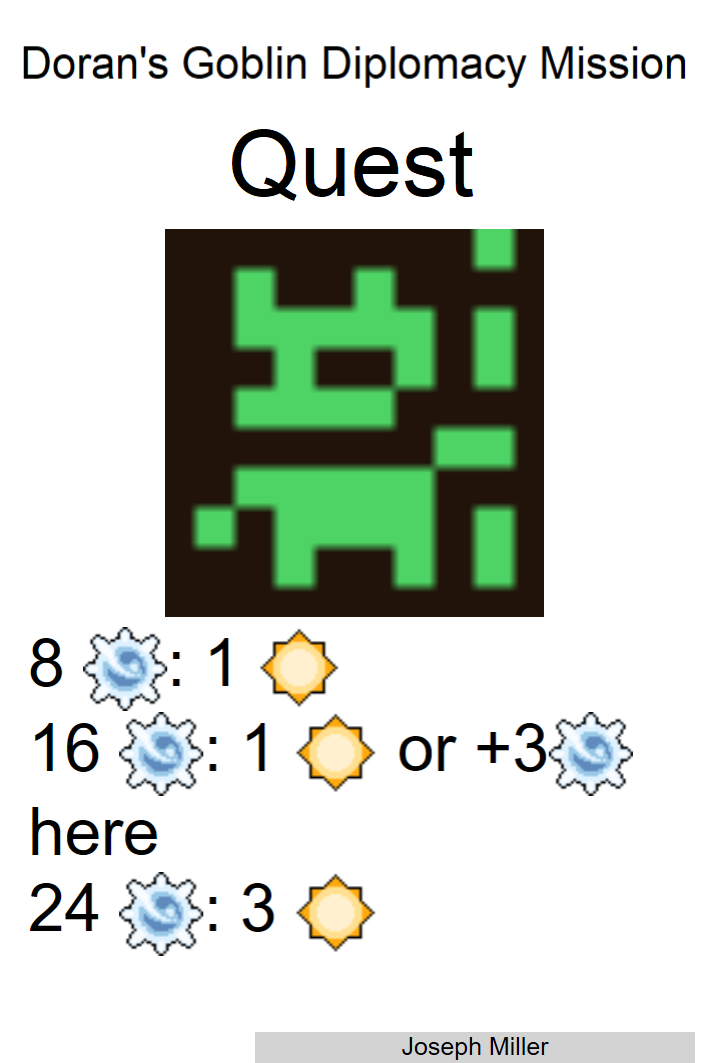
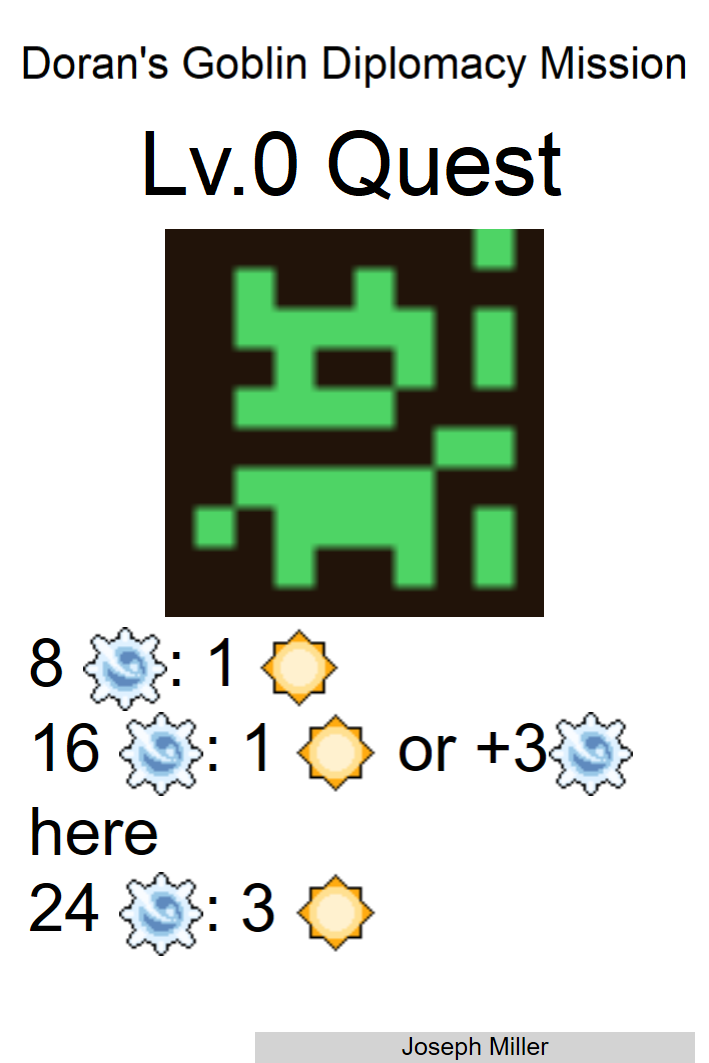
quest update correct dir, jane, rob

Changed region(s): [[0.1862, 0.1242, 0.8068, 0.1863]]

diff --git a/cardList.js b/cardList.js
@@ -1,86 +1,92 @@
-export const cardListString = `Inc,$$$,Name,$$$,Lv,$$$,Type,$$$,Cost,$$$,hasTrigger,$$$,Willpower,$$$,FX,$$$,NobaseLink,$$$,ImageLink,Color,$$$,Notes,$$$,Typeline,$$$,Set,$$$,Designer,$$$,Artist,$$$,DesArt,$$$,Prototype?,$$$,Type Sort Order
-,$$$,"Bert, Carnival Showman",$$$,1,$$$,Character - Bert,$$$,1rsrc&,$$$,,$$$,1 wp&,$$$,"grand~: Reveal a card from your hand and the top 3 cards of your deck. If any of them have matching names, +2wp& until end of turn.",$$$,tcgpics\joseph art\bert1.png,$$$,C:\nandeck(1)\tcgpics\joseph art\bert1.png,,$$$,,$$$,Lv.1 Character - Bert,$$$,Set 2,$$$,Ananda Guneratne,$$$,Joseph Miller,$$$,D:Ananda Guneratne/A:Joseph Miller,$$$,,$$$,1
-,$$$,"Bert, Slick Salesman",$$$,2,$$$,Character - Bert,$$$,3rsrc&,$$$,,$$$,2 wp&,$$$,"grand~: Reveal up to three cards from your hand and gain 2 rsrc& for each different card type revealed. (The card types are character, event, support.)",$$$,tcgpics\joseph art\bert2.png,$$$,C:\nandeck(1)\tcgpics\joseph art\bert2.png,,$$$,,$$$,Lv.2 Character - Bert,$$$,Set 2,$$$,Ananda Guneratne,$$$,Joseph Miller,$$$,D:Ananda Guneratne/A:Joseph Miller,$$$,,$$$,1
-,$$$,"Bert, Legendary Conman",$$$,3,$$$,Character - Bert,$$$,3rsrc&,$$$,,$$$,3 wp&,$$$,"For each card you reveal during a turn, gain 1 rsrc& (up to 8 rsrc&)",$$$,tcgpics\joseph art\bert3.png,$$$,C:\nandeck(1)\tcgpics\joseph art\bert3.png,,$$$,,$$$,Lv.3 Character - Bert,$$$,Set 2,$$$,Ananda Guneratne,$$$,Joseph Miller,$$$,D:Ananda Guneratne/A:Joseph Miller,$$$,,$$$,1
-,$$$,"Doran, the Necrodude",$$$,1,$$$,Character - Doran,$$$,1rsrc&,$$$,,$$$,1 wp&,$$$,grand&: +2 wp& this turn if you have at least 5 cards in your discard.,$$$,tcgpics\prototype pixel art\necromancer.png,$$$,C:\nandeck(1)\tcgpics\prototype pixel art\necromancer.png,,$$$,,$$$,Character - Doran,$$$,Set 1,$$$,Joseph Miller,$$$,Joseph Miller,$$$,Joseph Miller,$$$,,$$$,1
-,$$$,"Doran, Necro-Rising",$$$,2,$$$,Character - Doran,$$$,2rsrc&,$$$,,$$$,3 wp&,$$$,"grand&, 6 rsrc&: Discard an event to put 12 wp& on any quest Lv.2 or lower.",$$$,tcgpics\prototype pixel art\necromancer2.png,$$$,C:\nandeck(1)\tcgpics\prototype pixel art\necromancer2.png,,$$$,,$$$,Character - Doran,$$$,Set 1,$$$,Joseph Miller,$$$,Joseph Miller,$$$,Joseph Miller,$$$,,$$$,1
-,$$$,"Doran, Necro-Skeletized",$$$,3,$$$,Character - Doran,$$$,3rsrc&,$$$,,$$$,5 wp&,$$$,"grand&, 8 rsrc&, exhaust: Distribute 13 wp& as you choose between any two quests Lv.3 or lower.",$$$,tcgpics\prototype pixel art\necromancer3.png,$$$,C:\nandeck(1)\tcgpics\prototype pixel art\necromancer3.png,,$$$,,$$$,Character - Doran,$$$,Set 1,$$$,Joseph Miller,$$$,Joseph Miller,$$$,Joseph Miller,$$$,,$$$,1
-,$$$,"Dryad, the Dud",$$$,1,$$$,Character - Dryad,$$$,2rsrc&,$$$,,$$$,0 wp&,$$$,Exhaust: 2 rsrc&,$$$,tcgpics\prototype pixel art\dryad1.png,$$$,C:\nandeck(1)\tcgpics\prototype pixel art\dryad1.png,,$$$,,$$$,Lv.1 Character - Dryad,$$$,Set 2,$$$,Cole Hanton,$$$,Cole Hanton,$$$,Cole Hanton,$$$,,$$$,1
-,$$$,"Dryad, the Dude",$$$,2,$$$,Character - Dryad,$$$,4rsrc&,$$$,,$$$,1 wp&,$$$,Exhaust: 3 rsrc&,$$$,tcgpics\prototype pixel art\dryad2.png,$$$,C:\nandeck(1)\tcgpics\prototype pixel art\dryad2.png,,$$$,,$$$,Lv.2 Character - Dryad,$$$,Set 2,$$$,Cole Hanton,$$$,Cole Hanton,$$$,Cole Hanton,$$$,,$$$,1
-,$$$,"Dryad, the Oakencrest",$$$,3,$$$,Character - Dryad,$$$,7rsrc&,$$$,,$$$,2 wp&,$$$,Exhaust: 5 rsrc&,$$$,tcgpics\prototype pixel art\dryad3.png,$$$,C:\nandeck(1)\tcgpics\prototype pixel art\dryad3.png,,$$$,,$$$,Lv.3 Character - Dryad,$$$,Set 2,$$$,Cole Hanton,$$$,Cole Hanton,$$$,Cole Hanton,$$$,,$$$,1
-,$$$,"Eevin, Average Weatherman",$$$,1,$$$,Character - Eevin,$$$,2rsrc&,$$$,,$$$,1 wp&,$$$,grand~: You may put any number of cards from your hand on top of your deck. +1 wp& until end of turn for each card placed this way.,$$$,tcgpics\joseph art\eevin1.png,$$$,C:\nandeck(1)\tcgpics\joseph art\eevin1.png,,$$$,,$$$,Lv.1 Character - Eevin,$$$,Set 2,$$$,Ananda Guneratne,$$$,Joseph Miller,$$$,D:Ananda Guneratne/A:Joseph Miller,$$$,,$$$,1
-,$$$,"Eevin, Honored Prophet",$$$,2,$$$,Character - Eevin,$$$,5rsrc&,$$$,,$$$,2 wp&,$$$,grand~: Reveal the top card of your deck. You may draw it or play it for free.,$$$,tcgpics\joseph art\eevin2.png,$$$,C:\nandeck(1)\tcgpics\joseph art\eevin2.png,,$$$,,$$$,Lv.2 Character - Eevin,$$$,Set 2,$$$,Ananda Guneratne,$$$,Joseph Miller,$$$,D:Ananda Guneratne/A:Joseph Miller,$$$,,$$$,1
-,$$$,"Eevin, Oracle of Tomorrow",$$$,3,$$$,Character - Eevin,$$$,3rsrc&,$$$,trigger!,$$$,3 wp&,$$$,"You may look at the top card of your deck at any time.
+export const cardListString = `@@@,$$$,Name,$$$,Lv,$$$,Type,$$$,Cost,$$$,hasTrigger,$$$,Willpower,$$$,FX,$$$,NobaseLink,$$$,ImageLink,Color,$$$,Notes,$$$,Typeline,$$$,Set,$$$,Designer,$$$,Artist,$$$,DesArt,$$$,Prototype?,$$$,Type Sort Order
+@@@,$$$,"Bert, Carnival Showman",$$$,1,$$$,Character - Bert,$$$,1rsrc&,$$$,,$$$,1 wp&,$$$,"grand~: Reveal a card from your hand and the top 3 cards of your deck. If any of them have matching names, +2wp& until end of turn.",$$$,tcgpics\joseph art\bert1.png,$$$,C:\nandeck(1)\tcgpics\joseph art\bert1.png,,$$$,,$$$,Lv.1 Character - Bert,$$$,Set 2,$$$,Ananda Guneratne,$$$,Joseph Miller,$$$,D:Ananda Guneratne/A:Joseph Miller,$$$,,$$$,1
+@@@,$$$,"Bert, Slick Salesman",$$$,2,$$$,Character - Bert,$$$,3rsrc&,$$$,,$$$,2 wp&,$$$,"grand~: Reveal up to three cards from your hand and gain 2 rsrc& for each different card type revealed. (The card types are character, event, support.)",$$$,tcgpics\joseph art\bert2.png,$$$,C:\nandeck(1)\tcgpics\joseph art\bert2.png,,$$$,,$$$,Lv.2 Character - Bert,$$$,Set 2,$$$,Ananda Guneratne,$$$,Joseph Miller,$$$,D:Ananda Guneratne/A:Joseph Miller,$$$,,$$$,1
+@@@,$$$,"Bert, Legendary Conman",$$$,3,$$$,Character - Bert,$$$,3rsrc&,$$$,,$$$,3 wp&,$$$,"For each card you reveal during a turn, gain 1 rsrc& (up to 8 rsrc&)",$$$,tcgpics\joseph art\bert3.png,$$$,C:\nandeck(1)\tcgpics\joseph art\bert3.png,,$$$,,$$$,Lv.3 Character - Bert,$$$,Set 2,$$$,Ananda Guneratne,$$$,Joseph Miller,$$$,D:Ananda Guneratne/A:Joseph Miller,$$$,,$$$,1
+@@@,$$$,"Doran, the Necrodude",$$$,1,$$$,Character - Doran,$$$,1rsrc&,$$$,,$$$,1 wp&,$$$,grand&: +2 wp& this turn if you have at least 5 cards in your discard.,$$$,tcgpics\prototype pixel art\necromancer.png,$$$,C:\nandeck(1)\tcgpics\prototype pixel art\necromancer.png,,$$$,,$$$,Character - Doran,$$$,Set 1,$$$,Joseph Miller,$$$,Joseph Miller,$$$,Joseph Miller,$$$,,$$$,1
+@@@,$$$,"Doran, Necro-Rising",$$$,2,$$$,Character - Doran,$$$,2rsrc&,$$$,,$$$,3 wp&,$$$,"grand&, 6 rsrc&: Discard an event to put 12 wp& on any quest Lv.2 or lower.",$$$,tcgpics\prototype pixel art\necromancer2.png,$$$,C:\nandeck(1)\tcgpics\prototype pixel art\necromancer2.png,,$$$,,$$$,Character - Doran,$$$,Set 1,$$$,Joseph Miller,$$$,Joseph Miller,$$$,Joseph Miller,$$$,,$$$,1
+@@@,$$$,"Doran, Necro-Skeletized",$$$,3,$$$,Character - Doran,$$$,3rsrc&,$$$,,$$$,5 wp&,$$$,"grand&, 8 rsrc&, exhaust: Distribute 13 wp& as you choose between any two quests Lv.3 or lower.",$$$,tcgpics\prototype pixel art\necromancer3.png,$$$,C:\nandeck(1)\tcgpics\prototype pixel art\necromancer3.png,,$$$,,$$$,Character - Doran,$$$,Set 1,$$$,Joseph Miller,$$$,Joseph Miller,$$$,Joseph Miller,$$$,,$$$,1
+@@@,$$$,"Dryad, the Dud",$$$,1,$$$,Character - Dryad,$$$,2rsrc&,$$$,,$$$,0 wp&,$$$,Exhaust: 2 rsrc&,$$$,tcgpics\prototype pixel art\dryad1.png,$$$,C:\nandeck(1)\tcgpics\prototype pixel art\dryad1.png,,$$$,,$$$,Lv.1 Character - Dryad,$$$,Set 2,$$$,Cole Hanton,$$$,Cole Hanton,$$$,Cole Hanton,$$$,,$$$,1
+@@@,$$$,"Dryad, the Dude",$$$,2,$$$,Character - Dryad,$$$,4rsrc&,$$$,,$$$,1 wp&,$$$,Exhaust: 3 rsrc&,$$$,tcgpics\prototype pixel art\dryad2.png,$$$,C:\nandeck(1)\tcgpics\prototype pixel art\dryad2.png,,$$$,,$$$,Lv.2 Character - Dryad,$$$,Set 2,$$$,Cole Hanton,$$$,Cole Hanton,$$$,Cole Hanton,$$$,,$$$,1
+@@@,$$$,"Dryad, the Oakencrest",$$$,3,$$$,Character - Dryad,$$$,7rsrc&,$$$,,$$$,2 wp&,$$$,Exhaust: 5 rsrc&,$$$,tcgpics\prototype pixel art\dryad3.png,$$$,C:\nandeck(1)\tcgpics\prototype pixel art\dryad3.png,,$$$,,$$$,Lv.3 Character - Dryad,$$$,Set 2,$$$,Cole Hanton,$$$,Cole Hanton,$$$,Cole Hanton,$$$,,$$$,1
+@@@,$$$,"Eevin, Average Weatherman",$$$,1,$$$,Character - Eevin,$$$,2rsrc&,$$$,,$$$,1 wp&,$$$,grand~: You may put any number of cards from your hand on top of your deck. +1 wp& until end of turn for each card placed this way.,$$$,tcgpics\joseph art\eevin1.png,$$$,C:\nandeck(1)\tcgpics\joseph art\eevin1.png,,$$$,,$$$,Lv.1 Character - Eevin,$$$,Set 2,$$$,Ananda Guneratne,$$$,Joseph Miller,$$$,D:Ananda Guneratne/A:Joseph Miller,$$$,,$$$,1
+@@@,$$$,"Eevin, Honored Prophet",$$$,2,$$$,Character - Eevin,$$$,5rsrc&,$$$,,$$$,2 wp&,$$$,grand~: Reveal the top card of your deck. You may draw it or play it for free.,$$$,tcgpics\joseph art\eevin2.png,$$$,C:\nandeck(1)\tcgpics\joseph art\eevin2.png,,$$$,,$$$,Lv.2 Character - Eevin,$$$,Set 2,$$$,Ananda Guneratne,$$$,Joseph Miller,$$$,D:Ananda Guneratne/A:Joseph Miller,$$$,,$$$,1
+@@@,$$$,"Eevin, Oracle of Tomorrow",$$$,3,$$$,Character - Eevin,$$$,3rsrc&,$$$,trigger!,$$$,3 wp&,$$$,"You may look at the top card of your deck at any time.
 
 trigger~, 0 rsrc&: Look at the top card of your deck, you may put it on the top or bottom. Put this card on the bottom of your deck, then you may check for trigger~ effects again.",$$$,tcgpics\joseph art\eevin3.png,$$$,C:\nandeck(1)\tcgpics\joseph art\eevin3.png,,$$$,,$$$,Lv.3 Character - Eevin,$$$,Set 2,$$$,Ananda Guneratne,$$$,Joseph Miller,$$$,D:Ananda Guneratne/A:Joseph Miller,$$$,,$$$,1
-,$$$,"Finick, Phoenix",$$$,1,$$$,Character - Finick,$$$,2rsrc&,$$$,,$$$,1 wp&,$$$,"4 rsrc&: Search your deck for Finick, Phoenix Rising and put it into play. (Discard this card as normal)",$$$,tcgpics\prototype pixel art\finnick1.png,$$$,C:\nandeck(1)\tcgpics\prototype pixel art\finnick1.png,,$$$,,$$$,Lv.1 Character - Finick,$$$,Set 2,$$$,Cole Hanton,$$$,Cole Hanton,$$$,Cole Hanton,$$$,,$$$,1
-,$$$,"Finick, Phoenix Rising",$$$,2,$$$,Character - Finick,$$$,4rsrc&,$$$,,$$$,6 wp&,$$$,,$$$,tcgpics\prototype pixel art\finnick2.png,$$$,C:\nandeck(1)\tcgpics\prototype pixel art\finnick2.png,,$$$,,$$$,Lv.2 Character - Finick,$$$,Set 2,$$$,Cole Hanton,$$$,Cole Hanton,$$$,Cole Hanton,$$$,,$$$,1
-,$$$,Lady of the Red Strings,$$$,1,$$$,Character - LotRS,$$$,3rsrc&,$$$,trigger!,$$$,3 wp&,$$$,grand~ or (trigger~ 2 rsrc~): Reveal cards from the top of your deck until you reveal a support or character that costs 3 rsrc~ or less. You may draw it or play it. Put the remaining cards on the bottom of your deck in the same order.,$$$,tcgpics\prototype pixel art\ladyRedStrings.png,$$$,C:\nandeck(1)\tcgpics\prototype pixel art\ladyRedStrings.png,,$$$,,$$$,Lv.1 Character - LotRS,$$$,Set 3,$$$,Joseph Miller,$$$,Joseph Miller,$$$,Joseph Miller,$$$,,$$$,1
-,$$$,Octo-venturer,$$$,1,$$$,Character - Octo-venturer,$$$,2rsrc&,$$$,,$$$,2 wp&,$$$,grand&: 3 rsrc& and put 1 wp& on any quest.,$$$,tcgpics\prototype pixel art\octopus.png,$$$,C:\nandeck(1)\tcgpics\prototype pixel art\octopus.png,,$$$,,$$$,Character - Octo,$$$,Set 1,$$$,Joseph Miller,$$$,Joseph Miller,$$$,Joseph Miller,$$$,,$$$,1
-,$$$,"Octo-venturer, Evolving",$$$,2,$$$,Character - Octo-venturer,$$$,3rsrc&,$$$,,$$$,4 wp&,$$$,"grand&, 5 rsrc&: Ready Octo-venturer and they gain +3wp& until end of turn.",$$$,tcgpics\prototype pixel art\octoEvolve.png,$$$,C:\nandeck(1)\tcgpics\prototype pixel art\octoEvolve.png,,$$$,,$$$,Character - Octo,$$$,Set 1,$$$,Joseph Miller,$$$,Joseph Miller,$$$,Joseph Miller,$$$,,$$$,1
-,$$$,Pigimus the Loyal,$$$,2,$$$,Character - Pigimus,$$$,3rsrc&,$$$,,$$$,4 wp&,$$$,"grand~, 2 rsrc~: Look at the top 8 cards of your deck. You may draw a non-Pigimus character from among them. Put the rest on the bottom of your deck in any order.",$$$,tcgpics\prototype pixel art\pig02.png,$$$,C:\nandeck(1)\tcgpics\prototype pixel art\pig02.png,,$$$,,$$$,Lv.2 Character - Pigimus,$$$,Set 2,$$$,Joseph Miller,$$$,Joseph Miller,$$$,Joseph Miller,$$$,,$$$,1
-,$$$,Pigimus,$$$,3,$$$,Character - Pigimus,$$$,3rsrc&,$$$,,$$$,3 wp&,$$$,"grand&, rsrc&: Draw two cards.",$$$,tcgpics\prototype pixel art\pig.png,$$$,C:\nandeck(1)\tcgpics\prototype pixel art\pig.png,,$$$,,$$$,Character - Pig,$$$,Set 1,$$$,Joseph Miller,$$$,Joseph Miller,$$$,Joseph Miller,$$$,,$$$,1
-,$$$,"Pigimus Jr, the Armface Diplomat",$$$,1,$$$,Character - Pigimus Jr,$$$,3rsrc&,$$$,,$$$,3 wp&,$$$,Questing: +2 wp& if the next threshold of the quest has no costs other than wp& or rsrc&,$$$,tcgpics\prototype pixel art\pigJr01.png,$$$,C:\nandeck(1)\tcgpics\prototype pixel art\pigJr01.png,,$$$,,$$$,Lv.1 Character - Pigimus Jr,$$$,Set 2,$$$,Joseph Miller,$$$,Joseph Miller,$$$,Joseph Miller,$$$,,$$$,1
-,$$$,"Sinch, Expert Swordswoman",$$$,1,$$$,Character - Sinch,$$$,3rsrc&,$$$,,$$$,3 wp&,$$$,"grand&: Each player discards a card and you may put 3 wp& on a quest. If your opponent did not discard a character, put 5 wp& on that quest instead.",$$$,tcgpics\prototype pixel art\sinch01.png,$$$,C:\nandeck(1)\tcgpics\prototype pixel art\sinch01.png,,$$$,,$$$,Lv.1 Character - Sinch,$$$,Set 2,$$$,Joseph Miller,$$$,Joseph Miller,$$$,Joseph Miller,$$$,,$$$,1
-,$$$,"Sinch, Defier of God's Plans",$$$,2,$$$,Character - Sinch,$$$,4rsrc&,$$$,,$$$,4 wp&,$$$,grand&: Reveal your opponent's proph& and put 2 wp& on any quest. You may pay 3 rsrc& to discard that proph&,$$$,tcgpics\prototype pixel art\sinch02.png,$$$,C:\nandeck(1)\tcgpics\prototype pixel art\sinch02.png,,$$$,,$$$,Lv.2 Character - Sinch,$$$,Set 2,$$$,Joseph Miller,$$$,Joseph Miller,$$$,Joseph Miller,$$$,,$$$,1
-,$$$,"Sinch, Who Doesn't Ever Forget",$$$,3,$$$,Character - Sinch,$$$,5rsrc&,$$$,,$$$,6 wp&,$$$,"grand&, 4 rsrc&: Put a support that costs 5 rsrc& or less from your discard into play exhausted.",$$$,tcgpics\prototype pixel art\sinch03.png,$$$,C:\nandeck(1)\tcgpics\prototype pixel art\sinch03.png,,$$$,,$$$,Lv.3 Character - Sinch,$$$,Set 2,$$$,Joseph Miller,$$$,Joseph Miller,$$$,Joseph Miller,$$$,,$$$,1
-,$$$,Vol'Cahi,$$$,1,$$$,Character - Vol'Cahi,$$$,7rsrc&,$$$,,$$$,3 wp&,$$$,"On your opponent's turn, quests gain one level.",$$$,tcgpics\prototype pixel art\volCahi.png,$$$,C:\nandeck(1)\tcgpics\prototype pixel art\volCahi.png,,$$$,,$$$,Lv.1 Character - Vol'Cahi,$$$,Set 2,$$$,Cole Hanton,$$$,Cole Hanton,$$$,Cole Hanton,$$$,,$$$,1
-,$$$,"Vopi, the Batsquire",$$$,1,$$$,Character - Vopi,$$$,2rsrc&,$$$,,$$$,2wp&,$$$,"grand&, 2 rsrc&: Gain 5 rsrc&",$$$,tcgpics\prototype pixel art\bat.png,$$$,C:\nandeck(1)\tcgpics\prototype pixel art\bat.png,,$$$,,$$$,Character - Vopi,$$$,Set 1,$$$,Joseph Miller,$$$,Joseph Miller,$$$,Joseph Miller,$$$,,$$$,1
-,$$$,"Vopi, Batknight",$$$,2,$$$,Character - Vopi,$$$,4rsrc&,$$$,,$$$,5 wp&,$$$,"grand&, 5 rsrc&: Draw a card and lower a quest's level by 2 until end of turn.",$$$,tcgpics\prototype pixel art\vopiKnight.png,$$$,C:\nandeck(1)\tcgpics\prototype pixel art\vopiKnight.png,,$$$,,$$$,Character - Vopi,$$$,Set 1,$$$,Joseph Miller,$$$,Joseph Miller,$$$,Joseph Miller,$$$,,$$$,1
-,$$$,"Yetelu, Woad Knight",$$$,1,$$$,Character - Yetelu,$$$,3rsrc&,$$$,trigger!,$$$,2 wp&,$$$,grand& or (trigger& 2 rsrc&): Exhaust two opponent supports until their next prophecy phase.,$$$,tcgpics\prototype pixel art\treeKnight.png,$$$,C:\nandeck(1)\tcgpics\prototype pixel art\treeKnight.png,,$$$,,$$$,Lv.1 Character - Yetelu,$$$,Set 2,$$$,Joseph Miller,$$$,Joseph Miller,$$$,Joseph Miller,$$$,,$$$,1
-,$$$,Acolyte of Assurance,$$$,1,$$$,Character (Acolyte),$$$,2rsrc&,$$$,,$$$,0 wp&,$$$,"grand~: Search your deck for another Acolyte character and put it into play.
+@@@,$$$,"Finick, Phoenix",$$$,1,$$$,Character - Finick,$$$,2rsrc&,$$$,,$$$,1 wp&,$$$,"4 rsrc&: Search your deck for Finick, Phoenix Rising and put it into play. (Discard this card as normal)",$$$,tcgpics\prototype pixel art\finnick1.png,$$$,C:\nandeck(1)\tcgpics\prototype pixel art\finnick1.png,,$$$,,$$$,Lv.1 Character - Finick,$$$,Set 2,$$$,Cole Hanton,$$$,Cole Hanton,$$$,Cole Hanton,$$$,,$$$,1
+@@@,$$$,"Finick, Phoenix Rising",$$$,2,$$$,Character - Finick,$$$,4rsrc&,$$$,,$$$,6 wp&,$$$,,$$$,tcgpics\prototype pixel art\finnick2.png,$$$,C:\nandeck(1)\tcgpics\prototype pixel art\finnick2.png,,$$$,,$$$,Lv.2 Character - Finick,$$$,Set 2,$$$,Cole Hanton,$$$,Cole Hanton,$$$,Cole Hanton,$$$,,$$$,1
+@@@,$$$,"Jane, Hair-Dwelling Pixie",$$$,1,$$$,Character - Jane,$$$,3rsrc&,$$$,,$$$,1 wp&,$$$,grand&: Exhaust any number of supports to draw a card for each support exhausted.,$$$,tcgpics\joseph art\jane1.png,$$$,C:\nandeck(1)\tcgpics\joseph art\jane1.png,,$$$,,$$$,Lv.1 Character - Jane,$$$,Set 2,$$$,Ananda Guneratne,$$$,Joseph Miller,$$$,Ananda Guneratne / Joseph Miller,$$$,,$$$,1
+@@@,$$$,"Jane, Barber's Apprentice",$$$,2,$$$,Character - Jane,$$$,2rsrc&,$$$,,$$$,2 wp&,$$$,grand&: Ready a support.,$$$,tcgpics\joseph art\jane2.png,$$$,C:\nandeck(1)\tcgpics\joseph art\jane2.png,,$$$,,$$$,Lv.2 Character - Jane,$$$,Set 2,$$$,Ananda Guneratne,$$$,Joseph Miller,$$$,Ananda Guneratne / Joseph Miller,$$$,,$$$,1
+@@@,$$$,"Jane, Hairweaver",$$$,3,$$$,Character - Jane,$$$,3rsrc&,$$$,,$$$,3 wp&,$$$,"Your supports gain: ""Exhaust: Jane gets +1 wp& this turn""",$$$,tcgpics\joseph art\jane3.png,$$$,C:\nandeck(1)\tcgpics\joseph art\jane3.png,,$$$,,$$$,Lv.3 Character - Jane,$$$,Set 2,$$$,Ananda Guneratne,$$$,Joseph Miller,$$$,Ananda Guneratne / Joseph Miller,$$$,,$$$,1
+@@@,$$$,Lady of the Red Strings,$$$,1,$$$,Character - LotRS,$$$,3rsrc&,$$$,trigger!,$$$,3 wp&,$$$,grand~ or (trigger~ 2 rsrc~): Reveal cards from the top of your deck until you reveal a support or character that costs 3 rsrc~ or less. You may draw it or play it. Put the remaining cards on the bottom of your deck in the same order.,$$$,tcgpics\prototype pixel art\ladyRedStrings.png,$$$,C:\nandeck(1)\tcgpics\prototype pixel art\ladyRedStrings.png,,$$$,,$$$,Lv.1 Character - LotRS,$$$,Set 3,$$$,Joseph Miller,$$$,Joseph Miller,$$$,Joseph Miller,$$$,,$$$,1
+@@@,$$$,Octo-venturer,$$$,1,$$$,Character - Octo-venturer,$$$,2rsrc&,$$$,,$$$,2 wp&,$$$,grand&: 3 rsrc& and put 1 wp& on any quest.,$$$,tcgpics\prototype pixel art\octopus.png,$$$,C:\nandeck(1)\tcgpics\prototype pixel art\octopus.png,,$$$,,$$$,Character - Octo,$$$,Set 1,$$$,Joseph Miller,$$$,Joseph Miller,$$$,Joseph Miller,$$$,,$$$,1
+@@@,$$$,"Octo-venturer, Evolving",$$$,2,$$$,Character - Octo-venturer,$$$,3rsrc&,$$$,,$$$,4 wp&,$$$,"grand&, 5 rsrc&: Ready Octo-venturer and they gain +3wp& until end of turn.",$$$,tcgpics\prototype pixel art\octoEvolve.png,$$$,C:\nandeck(1)\tcgpics\prototype pixel art\octoEvolve.png,,$$$,,$$$,Character - Octo,$$$,Set 1,$$$,Joseph Miller,$$$,Joseph Miller,$$$,Joseph Miller,$$$,,$$$,1
+@@@,$$$,Pigimus the Loyal,$$$,2,$$$,Character - Pigimus,$$$,3rsrc&,$$$,,$$$,4 wp&,$$$,"grand~, 2 rsrc~: Look at the top 8 cards of your deck. You may draw a non-Pigimus character from among them. Put the rest on the bottom of your deck in any order.",$$$,tcgpics\prototype pixel art\pig02.png,$$$,C:\nandeck(1)\tcgpics\prototype pixel art\pig02.png,,$$$,,$$$,Lv.2 Character - Pigimus,$$$,Set 2,$$$,Joseph Miller,$$$,Joseph Miller,$$$,Joseph Miller,$$$,,$$$,1
+@@@,$$$,Pigimus,$$$,3,$$$,Character - Pigimus,$$$,3rsrc&,$$$,,$$$,3 wp&,$$$,"grand&, rsrc&: Draw two cards.",$$$,tcgpics\prototype pixel art\pig.png,$$$,C:\nandeck(1)\tcgpics\prototype pixel art\pig.png,,$$$,,$$$,Character - Pig,$$$,Set 1,$$$,Joseph Miller,$$$,Joseph Miller,$$$,Joseph Miller,$$$,,$$$,1
+@@@,$$$,"Pigimus Jr, the Armface Diplomat",$$$,1,$$$,Character - Pigimus Jr,$$$,3rsrc&,$$$,,$$$,3 wp&,$$$,Questing: +2 wp& if the next threshold of the quest has no costs other than wp& or rsrc&,$$$,tcgpics\prototype pixel art\pigJr01.png,$$$,C:\nandeck(1)\tcgpics\prototype pixel art\pigJr01.png,,$$$,,$$$,Lv.1 Character - Pigimus Jr,$$$,Set 2,$$$,Joseph Miller,$$$,Joseph Miller,$$$,Joseph Miller,$$$,,$$$,1
+@@@,$$$,"Robespierre, Radical Rhino",$$$,1,$$$,Character - Robspierre,$$$,4rsrc&,$$$,,$$$,4 wp&,$$$,"grand&: Both players draw 2 cards. Then, your opponent discards 2 cards.",$$$,tcgpics\joseph art\rob1.png,$$$,C:\nandeck(1)\tcgpics\joseph art\rob1.png,,$$$,,$$$,Lv.1 Character - Robspierre,$$$,Set 2,$$$,Ananda Guneratne,$$$,Joseph Miller,$$$,Ananda Guneratne / Joseph Miller,$$$,,$$$,1
+@@@,$$$,"Robespierre, Rhino Revolutionary",$$$,2,$$$,Character - Robspierre,$$$,3rsrc&,$$$,,$$$,6 wp&,$$$,"grand&: Discard any number of cards. For each card discarded, your opponent discards a card and this gets +2 wp& until end of turn.",$$$,tcgpics\joseph art\rob2.png,$$$,C:\nandeck(1)\tcgpics\joseph art\rob2.png,,$$$,,$$$,Lv.2 Character - Robspierre,$$$,Set 2,$$$,Ananda Guneratne,$$$,Joseph Miller,$$$,Ananda Guneratne / Joseph Miller,$$$,,$$$,1
+@@@,$$$,"Robespierre, Rotten Ruler",$$$,3,$$$,Character - Robspierre,$$$,0rsrc&,$$$,,$$$,3 wp&,$$$,"Whenever your opponent discards 2 or more cards from the same effect, gain 2 rsrc&",$$$,tcgpics\joseph art\rob3.png,$$$,C:\nandeck(1)\tcgpics\joseph art\rob3.png,,$$$,,$$$,Lv.3 Character - Robspierre,$$$,Set 2,$$$,Ananda Guneratne,$$$,Joseph Miller,$$$,Ananda Guneratne / Joseph Miller,$$$,,$$$,1
+@@@,$$$,"Sinch, Expert Swordswoman",$$$,1,$$$,Character - Sinch,$$$,3rsrc&,$$$,,$$$,3 wp&,$$$,"grand&: Each player discards a card and you may put 3 wp& on a quest. If your opponent did not discard a character, put 5 wp& on that quest instead.",$$$,tcgpics\prototype pixel art\sinch01.png,$$$,C:\nandeck(1)\tcgpics\prototype pixel art\sinch01.png,,$$$,,$$$,Lv.1 Character - Sinch,$$$,Set 2,$$$,Joseph Miller,$$$,Joseph Miller,$$$,Joseph Miller,$$$,,$$$,1
+@@@,$$$,"Sinch, Defier of God's Plans",$$$,2,$$$,Character - Sinch,$$$,4rsrc&,$$$,,$$$,4 wp&,$$$,grand&: Reveal your opponent's proph& and put 2 wp& on any quest. You may pay 3 rsrc& to discard that proph&,$$$,tcgpics\prototype pixel art\sinch02.png,$$$,C:\nandeck(1)\tcgpics\prototype pixel art\sinch02.png,,$$$,,$$$,Lv.2 Character - Sinch,$$$,Set 2,$$$,Joseph Miller,$$$,Joseph Miller,$$$,Joseph Miller,$$$,,$$$,1
+@@@,$$$,"Sinch, Who Doesn't Ever Forget",$$$,3,$$$,Character - Sinch,$$$,5rsrc&,$$$,,$$$,6 wp&,$$$,"grand&, 4 rsrc&: Put a support that costs 5 rsrc& or less from your discard into play exhausted.",$$$,tcgpics\prototype pixel art\sinch03.png,$$$,C:\nandeck(1)\tcgpics\prototype pixel art\sinch03.png,,$$$,,$$$,Lv.3 Character - Sinch,$$$,Set 2,$$$,Joseph Miller,$$$,Joseph Miller,$$$,Joseph Miller,$$$,,$$$,1
+@@@,$$$,Vol'Cahi,$$$,1,$$$,Character - Vol'Cahi,$$$,7rsrc&,$$$,,$$$,3 wp&,$$$,"On your opponent's turn, quests gain one level.",$$$,tcgpics\prototype pixel art\volCahi.png,$$$,C:\nandeck(1)\tcgpics\prototype pixel art\volCahi.png,,$$$,,$$$,Lv.1 Character - Vol'Cahi,$$$,Set 2,$$$,Cole Hanton,$$$,Cole Hanton,$$$,Cole Hanton,$$$,,$$$,1
+@@@,$$$,"Vopi, the Batsquire",$$$,1,$$$,Character - Vopi,$$$,2rsrc&,$$$,,$$$,2wp&,$$$,"grand&, 2 rsrc&: Gain 5 rsrc&",$$$,tcgpics\prototype pixel art\bat.png,$$$,C:\nandeck(1)\tcgpics\prototype pixel art\bat.png,,$$$,,$$$,Character - Vopi,$$$,Set 1,$$$,Joseph Miller,$$$,Joseph Miller,$$$,Joseph Miller,$$$,,$$$,1
+@@@,$$$,"Vopi, Batknight",$$$,2,$$$,Character - Vopi,$$$,4rsrc&,$$$,,$$$,5 wp&,$$$,"grand&, 5 rsrc&: Draw a card and lower a quest's level by 2 until end of turn.",$$$,tcgpics\prototype pixel art\vopiKnight.png,$$$,C:\nandeck(1)\tcgpics\prototype pixel art\vopiKnight.png,,$$$,,$$$,Character - Vopi,$$$,Set 1,$$$,Joseph Miller,$$$,Joseph Miller,$$$,Joseph Miller,$$$,,$$$,1
+@@@,$$$,"Yetelu, Woad Knight",$$$,1,$$$,Character - Yetelu,$$$,3rsrc&,$$$,trigger!,$$$,2 wp&,$$$,grand& or (trigger& 2 rsrc&): Exhaust two opponent supports until their next prophecy phase.,$$$,tcgpics\prototype pixel art\treeKnight.png,$$$,C:\nandeck(1)\tcgpics\prototype pixel art\treeKnight.png,,$$$,,$$$,Lv.1 Character - Yetelu,$$$,Set 2,$$$,Joseph Miller,$$$,Joseph Miller,$$$,Joseph Miller,$$$,,$$$,1
+@@@,$$$,Acolyte of Assurance,$$$,1,$$$,Character (Acolyte),$$$,2rsrc&,$$$,,$$$,0 wp&,$$$,"grand~: Search your deck for another Acolyte character and put it into play.
 
 +1 wp~ for each other Acolyte character you have in play.",$$$,tcgpics\prototype pixel art\aAssurance.png,$$$,C:\nandeck(1)\tcgpics\prototype pixel art\aAssurance.png,,$$$,,$$$,Lv.1 Character (Acolyte),$$$,Set 2,$$$,Cole Hanton,$$$,Cole Hanton,$$$,Cole Hanton,$$$,,$$$,1
-,$$$,Acolyte of Intrigue,$$$,1,$$$,Character (Acolyte),$$$,2rsrc&,$$$,,$$$,0 wp&,$$$,"grand~: Search your deck for another Acolyte character and put it into play.
+@@@,$$$,Acolyte of Intrigue,$$$,1,$$$,Character (Acolyte),$$$,2rsrc&,$$$,,$$$,0 wp&,$$$,"grand~: Search your deck for another Acolyte character and put it into play.
 
 +1 wp~ for each other Acolyte character you have in play.",$$$,tcgpics\prototype pixel art\aIntrigue.png,$$$,C:\nandeck(1)\tcgpics\prototype pixel art\aIntrigue.png,,$$$,,$$$,Lv.1 Character (Acolyte),$$$,Set 2,$$$,Cole Hanton,$$$,Cole Hanton,$$$,Cole Hanton,$$$,,$$$,1
-,$$$,Acolyte of Entertainment,$$$,1,$$$,Character (Acolyte),$$$,2rsrc&,$$$,,$$$,0 wp&,$$$,"grand~: Search your deck for another Acolyte character and put it into play.
+@@@,$$$,Acolyte of Entertainment,$$$,1,$$$,Character (Acolyte),$$$,2rsrc&,$$$,,$$$,0 wp&,$$$,"grand~: Search your deck for another Acolyte character and put it into play.
 
 +1 wp~ for each other Acolyte character you have in play.",$$$,tcgpics\prototype pixel art\aEntertainment.png,$$$,C:\nandeck(1)\tcgpics\prototype pixel art\aEntertainment.png,,$$$,,$$$,Lv.1 Character (Acolyte),$$$,Set 2,$$$,Cole Hanton,$$$,Cole Hanton,$$$,Cole Hanton,$$$,,$$$,1
-,$$$,Acolyte of Oration,$$$,1,$$$,Character (Acolyte),$$$,2rsrc&,$$$,,$$$,0 wp&,$$$,"grand~: Search your deck for another Acolyte character and put it into play.
+@@@,$$$,Acolyte of Oration,$$$,1,$$$,Character (Acolyte),$$$,2rsrc&,$$$,,$$$,0 wp&,$$$,"grand~: Search your deck for another Acolyte character and put it into play.
 
 +1 wp~ for each other Acolyte character you have in play.",$$$,tcgpics\prototype pixel art\aOration.png,$$$,C:\nandeck(1)\tcgpics\prototype pixel art\aOration.png,,$$$,,$$$,Lv.1 Character (Acolyte),$$$,Set 2,$$$,Cole Hanton,$$$,Cole Hanton,$$$,Cole Hanton,$$$,,$$$,1
-,$$$,Stone of Avarice,$$$,,$$$,Support,$$$,1rsrc&,$$$,,$$$,,$$$,,$$$,tcgpics\prototype pixel art\stoneOfAvarice.png,$$$,C:\nandeck(1)\tcgpics\prototype pixel art\stoneOfAvarice.png,,$$$,,$$$,Support,$$$,Set 2,$$$,Cole Hanton,$$$,Cole Hanton,$$$,Cole Hanton,$$$,,$$$,2
-,$$$,Doran's Unicorn Helper,$$$,,$$$,Support,$$$,2rsrc&,$$$,,$$$,,$$$,"Exhaust: +1 wp& to any character if you have two or fewer characters.
+@@@,$$$,Stone of Avarice,$$$,,$$$,Support,$$$,1rsrc&,$$$,,$$$,,$$$,,$$$,tcgpics\prototype pixel art\stoneOfAvarice.png,$$$,C:\nandeck(1)\tcgpics\prototype pixel art\stoneOfAvarice.png,,$$$,,$$$,Support,$$$,Set 2,$$$,Cole Hanton,$$$,Cole Hanton,$$$,Cole Hanton,$$$,,$$$,2
+@@@,$$$,Doran's Unicorn Helper,$$$,,$$$,Support,$$$,2rsrc&,$$$,,$$$,,$$$,"Exhaust: +1 wp& to any character if you have two or fewer characters.
 (Supports can be exhausted for 1 rsrc&)",$$$,tcgpics\prototype pixel art\\unicorn.png,$$$,C:\nandeck(1)\tcgpics\prototype pixel art\\unicorn.png,,$$$,,$$$,Support,$$$,Set 1,$$$,Joseph Miller,$$$,Joseph Miller,$$$,Joseph Miller,$$$,,$$$,2
-,$$$,Boots of Beginnings,$$$,,$$$,Support,$$$,2rsrc&,$$$,,$$$,,$$$,Exhaust: +3 wp& to a character questing a quest where you have less than 8 wp& until end of turn.,$$$,tcgpics\cc0 icons\A_Shoes04.png,$$$,C:\nandeck(1)\tcgpics\cc0 icons\A_Shoes04.png,,$$$,,$$$,Support,$$$,Set 2,$$$,Ananda Guneratne,$$$,Ananda Guneratne,$$$,Ananda Guneratne,$$$,,$$$,2
-,$$$,Sword of Heroism,$$$,,$$$,Support,$$$,2rsrc&,$$$,,$$$,,$$$,Exhaust: +3 wp& to a character questing a quest where you have more than 16 wp& until end of turn.,$$$,tcgpics\cc0 icons\W_Gold_Sword.png,$$$,C:\nandeck(1)\tcgpics\cc0 icons\W_Gold_Sword.png,,$$$,,$$$,Support,$$$,Set 2,$$$,Ananda Guneratne,$$$,Ananda Guneratne,$$$,Ananda Guneratne,$$$,,$$$,2
-,$$$,Enchanted Bident,$$$,,$$$,Support,$$$,3rsrc&,$$$,,$$$,,$$$,"rsrc&, exhaust: Draw a card or +2wp& to any character. 
+@@@,$$$,Boots of Beginnings,$$$,,$$$,Support,$$$,2rsrc&,$$$,,$$$,,$$$,Exhaust: +3 wp& to a character questing a quest where you have less than 8 wp& until end of turn.,$$$,tcgpics\cc0 icons\A_Shoes04.png,$$$,C:\nandeck(1)\tcgpics\cc0 icons\A_Shoes04.png,,$$$,,$$$,Support,$$$,Set 2,$$$,Ananda Guneratne,$$$,Ananda Guneratne,$$$,Ananda Guneratne,$$$,,$$$,2
+@@@,$$$,Sword of Heroism,$$$,,$$$,Support,$$$,2rsrc&,$$$,,$$$,,$$$,Exhaust: +3 wp& to a character questing a quest where you have more than 16 wp& until end of turn.,$$$,tcgpics\cc0 icons\W_Gold_Sword.png,$$$,C:\nandeck(1)\tcgpics\cc0 icons\W_Gold_Sword.png,,$$$,,$$$,Support,$$$,Set 2,$$$,Ananda Guneratne,$$$,Ananda Guneratne,$$$,Ananda Guneratne,$$$,,$$$,2
+@@@,$$$,Enchanted Bident,$$$,,$$$,Support,$$$,3rsrc&,$$$,,$$$,,$$$,"rsrc&, exhaust: Draw a card or +2wp& to any character. 
 (Supports can be exhausted for 1 rsrc&)",$$$,tcgpics\prototype pixel art\bident.png,$$$,C:\nandeck(1)\tcgpics\prototype pixel art\bident.png,,$$$,,$$$,Support,$$$,Set 1,$$$,Joseph Miller,$$$,Joseph Miller,$$$,Joseph Miller,$$$,,$$$,2
-,$$$,Historied Blade,$$$,,$$$,Support,$$$,3rsrc&,$$$,,$$$,,$$$,"Exhaust: +2 wp& to any character with at least 3 wp& until end of turn
+@@@,$$$,Historied Blade,$$$,,$$$,Support,$$$,3rsrc&,$$$,,$$$,,$$$,"Exhaust: +2 wp& to any character with at least 3 wp& until end of turn
 (Supports can be exhausted for 1 rsrc&)",$$$,tcgpics\prototype pixel art\orangeSword.png,$$$,C:\nandeck(1)\tcgpics\prototype pixel art\orangeSword.png,,$$$,,$$$,Support,$$$,Set 1,$$$,Joseph Miller,$$$,Joseph Miller,$$$,Joseph Miller,$$$,,$$$,2
-,$$$,Staff of Cowardice,$$$,,$$$,Support,$$$,3rsrc&,$$$,trigger!,$$$,,$$$,Discard from play or (trigger~ 1 rsrc~): Your opponent must pay 2 rsrc~ for each character that quests a quest Lv.1 or above until their next prophecy phase.,$$$,tcgpics\cc0 icons\W_Staff07.png,$$$,C:\nandeck(1)\tcgpics\cc0 icons\W_Staff07.png,,$$$,,$$$,Support,$$$,Set 2,$$$,Joseph Miller,$$$,Joseph Miller,$$$,Joseph Miller,$$$,,$$$,2
-,$$$,Mystic Seed,$$$,,$$$,Support,$$$,4rsrc&,$$$,,$$$,,$$$,Exhaust: Reveal the top card of your deck. You may draw it or play it for free. Destroy Mystic Seed.,$$$,tcgpics\cc0 icons\I_Clover.png,$$$,C:\nandeck(1)\tcgpics\cc0 icons\I_Clover.png,,$$$,,$$$,Support,$$$,Set 2,$$$,Ananda Guneratne,$$$,Ananda Guneratne,$$$,Ananda Guneratne,$$$,,$$$,2
-,$$$,Guillotine of Judgment,$$$,,$$$,Support,$$$,4rsrc&,$$$,trigger!,$$$,,$$$,"Whenever you discard a card you may ready this.
+@@@,$$$,Staff of Cowardice,$$$,,$$$,Support,$$$,3rsrc&,$$$,trigger!,$$$,,$$$,Discard from play or (trigger~ 1 rsrc~): Your opponent must pay 2 rsrc~ for each character that quests a quest Lv.1 or above until their next prophecy phase.,$$$,tcgpics\cc0 icons\W_Staff07.png,$$$,C:\nandeck(1)\tcgpics\cc0 icons\W_Staff07.png,,$$$,,$$$,Support,$$$,Set 2,$$$,Joseph Miller,$$$,Joseph Miller,$$$,Joseph Miller,$$$,,$$$,2
+@@@,$$$,Mystic Seed,$$$,,$$$,Support,$$$,4rsrc&,$$$,,$$$,,$$$,Exhaust: Reveal the top card of your deck. You may draw it or play it for free. Destroy Mystic Seed.,$$$,tcgpics\cc0 icons\I_Clover.png,$$$,C:\nandeck(1)\tcgpics\cc0 icons\I_Clover.png,,$$$,,$$$,Support,$$$,Set 2,$$$,Ananda Guneratne,$$$,Ananda Guneratne,$$$,Ananda Guneratne,$$$,,$$$,2
+@@@,$$$,Guillotine of Judgment,$$$,,$$$,Support,$$$,4rsrc&,$$$,trigger!,$$$,,$$$,"Whenever you discard a card you may ready this.
 
 trigger&, 2 rsrc&: Your opponent must discard two cards.",$$$,tcgpics\joseph art\guillotine.png,$$$,C:\nandeck(1)\tcgpics\joseph art\guillotine.png,,$$$,,$$$,Support,$$$,Set 2,$$$,Ananda Guneratne,$$$,Joseph Miller,$$$,D:Ananda Guneratne/A:Joseph Miller,$$$,,$$$,2
-,$$$,Edge of the Dauntless,$$$,,$$$,Support,$$$,5rsrc&,$$$,,$$$,,$$$,Discard from play: Gain 3 rsrc& and put 3 wp& on any quest.,$$$,tcgpics\prototype pixel art\dauntlessBlade.png,$$$,C:\nandeck(1)\tcgpics\prototype pixel art\dauntlessBlade.png,,$$$,,$$$,,$$$,Set 2,$$$,Joseph Miller,$$$,Joseph Miller,$$$,Joseph Miller,$$$,,$$$,2
-,$$$,Cogwork Delvings,$$$,,$$$,Support,$$$,5rsrc&,$$$,,$$$,,$$$,Exhaust: Draw a card.,$$$,tcgpics\prototype pixel art\cogDelvings.png,$$$,C:\nandeck(1)\tcgpics\prototype pixel art\cogDelvings.png,,$$$,,$$$,Support,$$$,Set 2,$$$,Cole Hanton,$$$,Cole Hanton,$$$,Cole Hanton,$$$,,$$$,2
-,$$$,Staff of Greed,$$$,,$$$,Support,$$$,6rsrc&,$$$,,$$$,,$$$,"When Staff of Greed comes into play, pay 2 rsrc& or discard a support you control from play.
+@@@,$$$,Edge of the Dauntless,$$$,,$$$,Support,$$$,5rsrc&,$$$,,$$$,,$$$,Discard from play: Gain 3 rsrc& and put 3 wp& on any quest.,$$$,tcgpics\prototype pixel art\dauntlessBlade.png,$$$,C:\nandeck(1)\tcgpics\prototype pixel art\dauntlessBlade.png,,$$$,,$$$,,$$$,Set 2,$$$,Joseph Miller,$$$,Joseph Miller,$$$,Joseph Miller,$$$,,$$$,2
+@@@,$$$,Cogwork Delvings,$$$,,$$$,Support,$$$,5rsrc&,$$$,,$$$,,$$$,Exhaust: Draw a card.,$$$,tcgpics\prototype pixel art\cogDelvings.png,$$$,C:\nandeck(1)\tcgpics\prototype pixel art\cogDelvings.png,,$$$,,$$$,Support,$$$,Set 2,$$$,Cole Hanton,$$$,Cole Hanton,$$$,Cole Hanton,$$$,,$$$,2
+@@@,$$$,Staff of Greed,$$$,,$$$,Support,$$$,6rsrc&,$$$,,$$$,,$$$,"When Staff of Greed comes into play, pay 2 rsrc& or discard a support you control from play.
 
 Exhausts for 3 rsrc&",$$$,tcgpics\prototype pixel art\greedStaff.png,$$$,C:\nandeck(1)\tcgpics\prototype pixel art\greedStaff.png,,$$$,,$$$,Support,$$$,Set 1,$$$,Joseph Miller,$$$,Joseph Miller,$$$,Joseph Miller,$$$,,$$$,2
-,$$$,Combat Training,$$$,,$$$,Event,$$$,0rsrc&,$$$,trigger!,$$$,,$$$,"The active player must exhaust a character. If they did, they draw a card.",$$$,tcgpics\cc0 icons\E_Wood01.png,$$$,C:\nandeck(1)\tcgpics\cc0 icons\E_Wood01.png,,$$$,,$$$,Event,$$$,Set 2,$$$,Joseph Miller,$$$,Joseph Miller,$$$,Joseph Miller,$$$,,$$$,3
-,$$$,Krosan Fist of Solidarity,$$$,,$$$,Event,$$$,0rsrc&,$$$,trigger!,$$$,,$$$,Put 4 opponent wp& on a quest and gain 1 stars&,$$$,tcgpics\cc0 icons\S_Earth02.png,$$$,C:\nandeck(1)\tcgpics\cc0 icons\S_Earth02.png,,$$$,,$$$,Event,$$$,Set 2,$$$,Joseph Miller,$$$,Joseph Miller,$$$,Joseph Miller,$$$,,$$$,3
-,$$$,Borrow a Wizard's Hat,$$$,,$$$,Event,$$$,1rsrc&,$$$,,$$$,,$$$,Reduce the level of a quest by 1 until the end of the turn.,$$$,tcgpics\prototype pixel art\hat.png,$$$,C:\nandeck(1)\tcgpics\prototype pixel art\hat.png,,$$$,,$$$,Event,$$$,Set 1,$$$,Joseph Miller,$$$,Joseph Miller,$$$,Joseph Miller,$$$,,$$$,3
-,$$$,Assemble Amulet of Grim Protection,$$$,,$$$,Event,$$$,1rsrc&,$$$,,$$$,,$$$,+2 wp& to a character until and of turn and trigger& abilities this turn cost an additional card being discarded from their owner's hand.,$$$,tcgpics\cc0 icons\Ac_Necklace06.png,$$$,C:\nandeck(1)\tcgpics\cc0 icons\Ac_Necklace06.png,,$$$,,$$$,Event,$$$,Set 2,$$$,Joseph Miller,$$$,Joseph Miller,$$$,Joseph Miller,$$$,,$$$,3
-,$$$,Good shot!,$$$,,$$$,Event,$$$,2rsrc&,$$$,,$$$,,$$$,+4 wp& on a Lv.1 character of your choice until end of turn.,$$$,tcgpics\prototype pixel art\bow.png,$$$,C:\nandeck(1)\tcgpics\prototype pixel art\bow.png,,$$$,,$$$,Event,$$$,Set 1,$$$,Joseph Miller,$$$,Joseph Miller,$$$,Joseph Miller,$$$,,$$$,3
-,$$$,Doran's River Purification Spell,$$$,,$$$,Event,$$$,2rsrc&,$$$,,$$$,,$$$,You may discard a card to gain 2 stars&,$$$,tcgpics\cc0 icons\S_Water02.png,$$$,C:\nandeck(1)\tcgpics\cc0 icons\S_Water02.png,,$$$,,$$$,Event,$$$,Set 1,$$$,Joseph Miller,$$$,Joseph Miller,$$$,Joseph Miller,$$$,,$$$,3
-,$$$,Doran's Conjured Help,$$$,,$$$,Event,$$$,2rsrc&,$$$,,$$$,,$$$,Put 3 wp& on any quest Lv.2 or lower.,$$$,tcgpics\prototype pixel art\helper.png,$$$,C:\nandeck(1)\tcgpics\prototype pixel art\helper.png,,$$$,,$$$,Event,$$$,Set 1,$$$,Joseph Miller,$$$,Joseph Miller,$$$,Joseph Miller,$$$,,$$$,3
-,$$$,Doran's Digging Technique,$$$,,$$$,Event,$$$,2rsrc&,$$$,,$$$,,$$$,Draw two cards.,$$$,tcgpics\prototype pixel art\shovel.png,$$$,C:\nandeck(1)\tcgpics\prototype pixel art\shovel.png,,$$$,,$$$,Event,$$$,Set 1,$$$,Joseph Miller,$$$,Joseph Miller,$$$,Joseph Miller,$$$,,$$$,3
-,$$$,Shadowdagger Lunge,$$$,,$$$,Event,$$$,2rsrc&,$$$,trigger!,$$$,,$$$,"Discard a card to add 5 wp& to a quest.
+@@@,$$$,Combat Training,$$$,,$$$,Event,$$$,0rsrc&,$$$,trigger!,$$$,,$$$,"The active player must exhaust a character. If they did, they draw a card.",$$$,tcgpics\cc0 icons\E_Wood01.png,$$$,C:\nandeck(1)\tcgpics\cc0 icons\E_Wood01.png,,$$$,,$$$,Event,$$$,Set 2,$$$,Joseph Miller,$$$,Joseph Miller,$$$,Joseph Miller,$$$,,$$$,3
+@@@,$$$,Krosan Fist of Solidarity,$$$,,$$$,Event,$$$,0rsrc&,$$$,trigger!,$$$,,$$$,Put 4 opponent wp& on a quest and gain 1 stars&,$$$,tcgpics\cc0 icons\S_Earth02.png,$$$,C:\nandeck(1)\tcgpics\cc0 icons\S_Earth02.png,,$$$,,$$$,Event,$$$,Set 2,$$$,Joseph Miller,$$$,Joseph Miller,$$$,Joseph Miller,$$$,,$$$,3
+@@@,$$$,Borrow a Wizard's Hat,$$$,,$$$,Event,$$$,1rsrc&,$$$,,$$$,,$$$,Reduce the level of a quest by 1 until the end of the turn.,$$$,tcgpics\prototype pixel art\hat.png,$$$,C:\nandeck(1)\tcgpics\prototype pixel art\hat.png,,$$$,,$$$,Event,$$$,Set 1,$$$,Joseph Miller,$$$,Joseph Miller,$$$,Joseph Miller,$$$,,$$$,3
+@@@,$$$,Assemble Amulet of Grim Protection,$$$,,$$$,Event,$$$,1rsrc&,$$$,,$$$,,$$$,+2 wp& to a character until and of turn and trigger& abilities this turn cost an additional card being discarded from their owner's hand.,$$$,tcgpics\cc0 icons\Ac_Necklace06.png,$$$,C:\nandeck(1)\tcgpics\cc0 icons\Ac_Necklace06.png,,$$$,,$$$,Event,$$$,Set 2,$$$,Joseph Miller,$$$,Joseph Miller,$$$,Joseph Miller,$$$,,$$$,3
+@@@,$$$,Good shot!,$$$,,$$$,Event,$$$,2rsrc&,$$$,,$$$,,$$$,+4 wp& on a Lv.1 character of your choice until end of turn.,$$$,tcgpics\prototype pixel art\bow.png,$$$,C:\nandeck(1)\tcgpics\prototype pixel art\bow.png,,$$$,,$$$,Event,$$$,Set 1,$$$,Joseph Miller,$$$,Joseph Miller,$$$,Joseph Miller,$$$,,$$$,3
+@@@,$$$,Doran's River Purification Spell,$$$,,$$$,Event,$$$,2rsrc&,$$$,,$$$,,$$$,You may discard a card to gain 2 stars&,$$$,tcgpics\cc0 icons\S_Water02.png,$$$,C:\nandeck(1)\tcgpics\cc0 icons\S_Water02.png,,$$$,,$$$,Event,$$$,Set 1,$$$,Joseph Miller,$$$,Joseph Miller,$$$,Joseph Miller,$$$,,$$$,3
+@@@,$$$,Doran's Conjured Help,$$$,,$$$,Event,$$$,2rsrc&,$$$,,$$$,,$$$,Put 3 wp& on any quest Lv.2 or lower.,$$$,tcgpics\prototype pixel art\helper.png,$$$,C:\nandeck(1)\tcgpics\prototype pixel art\helper.png,,$$$,,$$$,Event,$$$,Set 1,$$$,Joseph Miller,$$$,Joseph Miller,$$$,Joseph Miller,$$$,,$$$,3
+@@@,$$$,Doran's Digging Technique,$$$,,$$$,Event,$$$,2rsrc&,$$$,,$$$,,$$$,Draw two cards.,$$$,tcgpics\prototype pixel art\shovel.png,$$$,C:\nandeck(1)\tcgpics\prototype pixel art\shovel.png,,$$$,,$$$,Event,$$$,Set 1,$$$,Joseph Miller,$$$,Joseph Miller,$$$,Joseph Miller,$$$,,$$$,3
+@@@,$$$,Shadowdagger Lunge,$$$,,$$$,Event,$$$,2rsrc&,$$$,trigger!,$$$,,$$$,"Discard a card to add 5 wp& to a quest.
 
 trigger&: Discard a card to remove 5 wp& from the current quest.",$$$,tcgpics\cc0 icons\W_Dagger019.png,$$$,C:\nandeck(1)\tcgpics\cc0 icons\W_Dagger019.png,,$$$,,$$$,Event,$$$,Set 2,$$$,Joseph Miller,$$$,Joseph Miller,$$$,Joseph Miller,$$$,,$$$,3
-,$$$,Farmer Appreciation Day,$$$,,$$$,Event,$$$,2rsrc&,$$$,trigger!,$$$,,$$$,The active player exhausts all their supports and gains 2 rsrc& for each support exhausted this way.,$$$,tcgpics\joseph art\farmer.png,$$$,C:\nandeck(1)\tcgpics\joseph art\farmer.png,,$$$,,$$$,Event,$$$,Set 2,$$$,Ananda Guneratne,$$$,Joseph Miller,$$$,D:Ananda Guneratne/A:Joseph Miller,$$$,,$$$,3
-,$$$,Intimidation Tactics,$$$,,$$$,Event,$$$,3rsrc&,$$$,,$$$,,$$$,Remove 4 opponent wp& from a quest.,$$$,tcgpics\prototype pixel art\skull.png,$$$,C:\nandeck(1)\tcgpics\prototype pixel art\skull.png,,$$$,,$$$,Event,$$$,Set 1,$$$,Joseph Miller,$$$,Joseph Miller,$$$,Joseph Miller,$$$,,$$$,3
-,$$$,Swift Travel,$$$,,$$$,Event,$$$,3rsrc&,$$$,,$$$,,$$$,"Draw two cards and put 1wp& on a quest Lv.1 or lower.
+@@@,$$$,Farmer Appreciation Day,$$$,,$$$,Event,$$$,2rsrc&,$$$,trigger!,$$$,,$$$,The active player exhausts all their supports and gains 2 rsrc& for each support exhausted this way.,$$$,tcgpics\joseph art\farmer.png,$$$,C:\nandeck(1)\tcgpics\joseph art\farmer.png,,$$$,,$$$,Event,$$$,Set 2,$$$,Ananda Guneratne,$$$,Joseph Miller,$$$,D:Ananda Guneratne/A:Joseph Miller,$$$,,$$$,3
+@@@,$$$,Intimidation Tactics,$$$,,$$$,Event,$$$,3rsrc&,$$$,,$$$,,$$$,Remove 4 opponent wp& from a quest.,$$$,tcgpics\prototype pixel art\skull.png,$$$,C:\nandeck(1)\tcgpics\prototype pixel art\skull.png,,$$$,,$$$,Event,$$$,Set 1,$$$,Joseph Miller,$$$,Joseph Miller,$$$,Joseph Miller,$$$,,$$$,3
+@@@,$$$,Swift Travel,$$$,,$$$,Event,$$$,3rsrc&,$$$,,$$$,,$$$,"Draw two cards and put 1wp& on a quest Lv.1 or lower.
 
 If you control two or fewer characters, draw an additional card.",$$$,tcgpics\cc0 icons\S_Wind06.png,$$$,C:\nandeck(1)\tcgpics\cc0 icons\S_Wind06.png,,$$$,,$$$,Event,$$$,Set 1,$$$,Joseph Miller,$$$,Joseph Miller,$$$,Joseph Miller,$$$,,$$$,3
-,$$$,Tense Exchange,$$$,,$$$,Event,$$$,3rsrc&,$$$,trigger!,$$$,,$$$,Draw a card and your opponent must discard a card.,$$$,tcgpics\cc0 icons\S_Bow08.png,$$$,C:\nandeck(1)\tcgpics\cc0 icons\S_Bow08.png,,$$$,,$$$,Event,$$$,Set 2,$$$,Joseph Miller,$$$,Joseph Miller,$$$,Joseph Miller,$$$,,$$$,3
-,$$$,Pie Break,$$$,,$$$,Event,$$$,3rsrc&,$$$,trigger!,$$$,,$$$,Exhaust an opponent's character until its owner's next prophecy phase.,$$$,tcgpics\cc0 icons\I_C_Pie.png,$$$,C:\nandeck(1)\tcgpics\cc0 icons\I_C_Pie.png,,$$$,,$$$,Event,$$$,Set 2,$$$,Joseph Miller,$$$,Joseph Miller,$$$,Joseph Miller,$$$,,$$$,3
-,$$$,Grave Tending By Torchlight,$$$,,$$$,Event,$$$,3rsrc&,$$$,,$$$,,$$$,"Gain 1 stars&. Whenever you would draw a card, you may draw this card from your discard pile instead.",$$$,tcgpics\prototype pixel art\grobTorch.png,$$$,C:\nandeck(1)\tcgpics\prototype pixel art\grobTorch.png,,$$$,,$$$,Event,$$$,Set 2,$$$,Cole Hanton,$$$,Cole Hanton,$$$,Cole Hanton,$$$,,$$$,3
-,$$$,Fateful Tsunami,$$$,,$$$,Event,$$$,4rsrc&,$$$,trigger!,$$$,,$$$,Each player exhausts all their supports until their next prophecy phase. Each player may play a support that costs 3 rsrc& or less exhausted.,$$$,tcgpics\cc0 icons\S_Water05.png,$$$,C:\nandeck(1)\tcgpics\cc0 icons\S_Water05.png,,$$$,,$$$,Event,$$$,Set 2,$$$,Joseph Miller,$$$,Joseph Miller,$$$,Joseph Miller,$$$,,$$$,3
-,$$$,Witch's Tale,$$$,,$$$,Event,$$$,4rsrc&,$$$,,$$$,,$$$,"proph&: You may choose not to discard this at the beginning of your prophecy phase. If you don't discard it, put a prophecy token on this card. If you do discard it, gain stars& equal to the number of prophecy tokens on it.",$$$,tcgpics\prototype pixel art\witchTale.png,$$$,C:\nandeck(1)\tcgpics\prototype pixel art\witchTale.png,,$$$,,$$$,Event,$$$,Set 2,$$$,Cole Hanton,$$$,Cole Hanton,$$$,Cole Hanton,$$$,,$$$,3
-,$$$,Consume Potion of Protection,$$$,,$$$,Event,$$$,6rsrc&,$$$,,$$$,,$$$,"Choose a quest, it will not cause trigger& abilities this turn. Ready two characters.",$$$,tcgpics\cc0 icons\P_Orange06.png,$$$,C:\nandeck(1)\tcgpics\cc0 icons\P_Orange06.png,,$$$,,$$$,Event,$$$,Set 2,$$$,Joseph Miller,$$$,Joseph Miller,$$$,Joseph Miller,$$$,,$$$,3
+@@@,$$$,Tense Exchange,$$$,,$$$,Event,$$$,3rsrc&,$$$,trigger!,$$$,,$$$,Draw a card and your opponent must discard a card.,$$$,tcgpics\cc0 icons\S_Bow08.png,$$$,C:\nandeck(1)\tcgpics\cc0 icons\S_Bow08.png,,$$$,,$$$,Event,$$$,Set 2,$$$,Joseph Miller,$$$,Joseph Miller,$$$,Joseph Miller,$$$,,$$$,3
+@@@,$$$,Pie Break,$$$,,$$$,Event,$$$,3rsrc&,$$$,trigger!,$$$,,$$$,Exhaust an opponent's character until its owner's next prophecy phase.,$$$,tcgpics\cc0 icons\I_C_Pie.png,$$$,C:\nandeck(1)\tcgpics\cc0 icons\I_C_Pie.png,,$$$,,$$$,Event,$$$,Set 2,$$$,Joseph Miller,$$$,Joseph Miller,$$$,Joseph Miller,$$$,,$$$,3
+@@@,$$$,Grave Tending By Torchlight,$$$,,$$$,Event,$$$,3rsrc&,$$$,,$$$,,$$$,"Gain 1 stars&. Whenever you would draw a card, you may draw this card from your discard pile instead.",$$$,tcgpics\prototype pixel art\grobTorch.png,$$$,C:\nandeck(1)\tcgpics\prototype pixel art\grobTorch.png,,$$$,,$$$,Event,$$$,Set 2,$$$,Cole Hanton,$$$,Cole Hanton,$$$,Cole Hanton,$$$,,$$$,3
+@@@,$$$,Fateful Tsunami,$$$,,$$$,Event,$$$,4rsrc&,$$$,trigger!,$$$,,$$$,Each player exhausts all their supports until their next prophecy phase. Each player may play a support that costs 3 rsrc& or less exhausted.,$$$,tcgpics\cc0 icons\S_Water05.png,$$$,C:\nandeck(1)\tcgpics\cc0 icons\S_Water05.png,,$$$,,$$$,Event,$$$,Set 2,$$$,Joseph Miller,$$$,Joseph Miller,$$$,Joseph Miller,$$$,,$$$,3
+@@@,$$$,Witch's Tale,$$$,,$$$,Event,$$$,4rsrc&,$$$,,$$$,,$$$,"proph&: You may choose not to discard this at the beginning of your prophecy phase. If you don't discard it, put a prophecy token on this card. If you do discard it, gain stars& equal to the number of prophecy tokens on it.",$$$,tcgpics\prototype pixel art\witchTale.png,$$$,C:\nandeck(1)\tcgpics\prototype pixel art\witchTale.png,,$$$,,$$$,Event,$$$,Set 2,$$$,Cole Hanton,$$$,Cole Hanton,$$$,Cole Hanton,$$$,,$$$,3
+@@@,$$$,Consume Potion of Protection,$$$,,$$$,Event,$$$,6rsrc&,$$$,,$$$,,$$$,"Choose a quest, it will not cause trigger& abilities this turn. Ready two characters.",$$$,tcgpics\cc0 icons\P_Orange06.png,$$$,C:\nandeck(1)\tcgpics\cc0 icons\P_Orange06.png,,$$$,,$$$,Event,$$$,Set 2,$$$,Joseph Miller,$$$,Joseph Miller,$$$,Joseph Miller,$$$,,$$$,3
 @@@,$$$,Doran's Goblin Diplomacy Mission,$$$,0,$$$,Quest,$$$,,$$$,,$$$,,$$$,"8 wp&: 1 stars&
 16 wp&: 1 stars& or +3wp& here
 24 wp&: 3 stars&",$$$,tcgpics\prototype pixel art\goblin.png,$$$,C:\nandeck(1)\tcgpics\prototype pixel art\goblin.png,,$$$,,$$$,Lv.0 Quest,$$$,Set 1,$$$,Joseph Miller,$$$,Joseph Miller,$$$,Joseph Miller,$$$,,$$$,4
